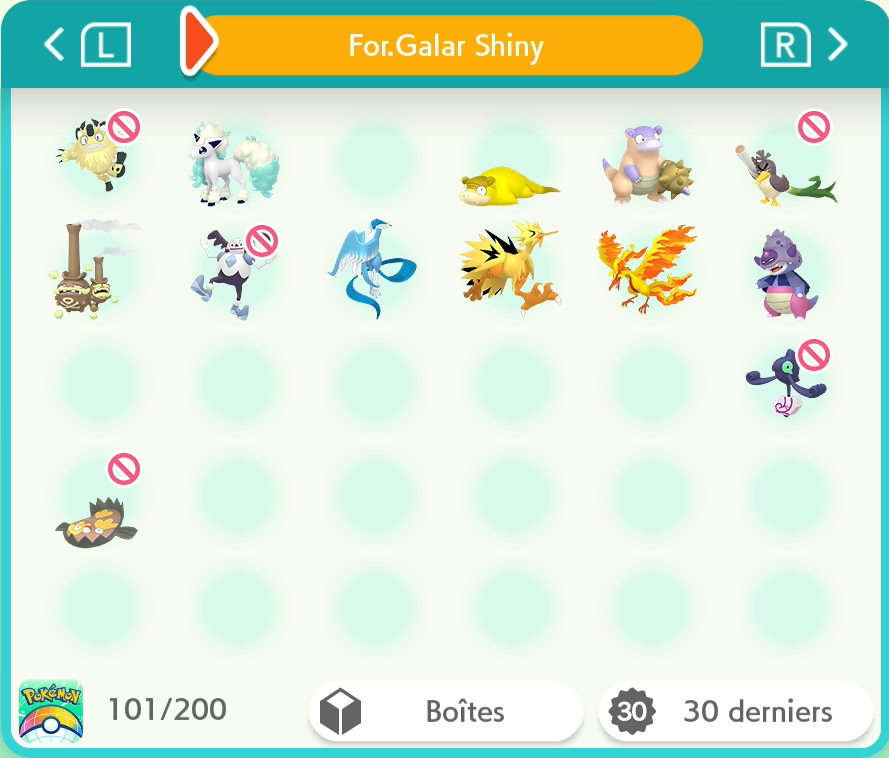
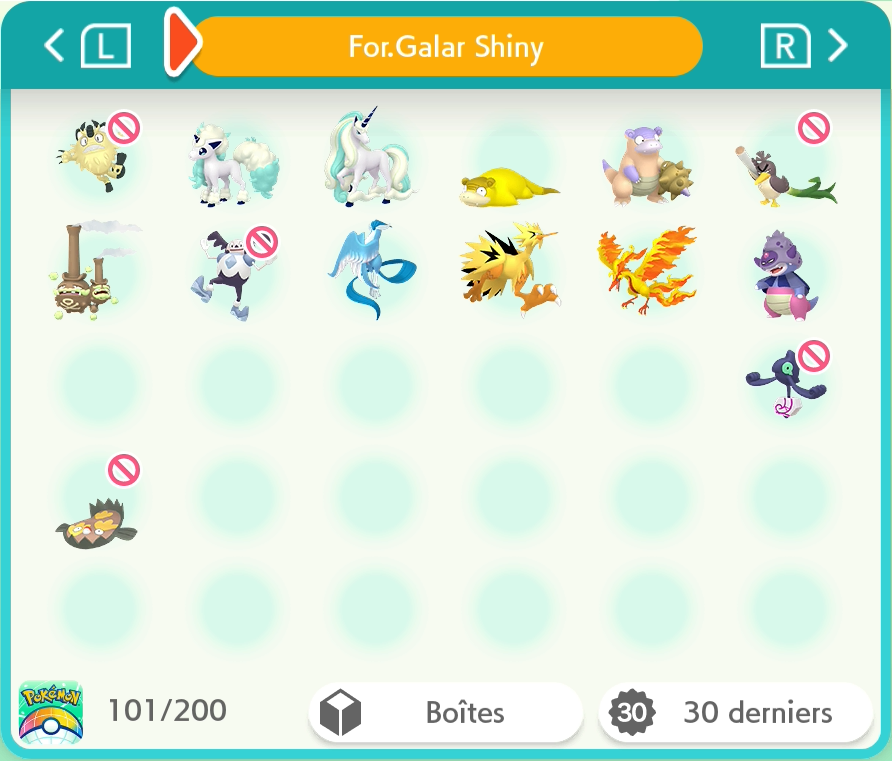
Forme de Galar : Galopa

diff --git a/README.md b/README.md
@@ -2,7 +2,7 @@
 
 Pokémon-Elément-Sh -> <a href="https://www.pokemon-element-sh.fr/profil/karyno21" target="_blank">Karyno21</a>
 
-↓ Dernière Update le 1/06/2026 à 17h52 ↓
+↓ Dernière Update le 3/06/2026 à 0h25 ↓
 ### Dex National [259/999] +23
 
 | Gen | Prog | Notes |
@@ -17,12 +17,12 @@ Pokémon-Elément-Sh -> <a href="https://www.pokemon-element-sh.fr/profil/karyno
 |8G|31/90|+9 Distrib Zacian & Éthernatos, Fantyrm, Dispareptil, Lanssorien, M.Glaquette, Berserkatt, Tutétékri & Palarticho|
 |9G|45/108|+3 Terraiste, Cryodo & Glaivodo|
 
-### Formes Régionales [52/58] +33
+### Formes Régionales [53/58] +34
 
 | Forme | Prog | Notes |
 |:--:|:--:|---|
 |Alola|18/18|+17 Complété (Familles de Rattata / Goupix / Racaillou / Sabelette / Tadmorv / Taupiqueur & Miaouss, Raichu & Noadkoko)|
-|Galar|13/19|+13 Famille de Ramoloss, Distrib des oiseaux légendaire de Galar, M.Mime, Miaouss, Tutafeh, Canarticho, Limonde, Smogogo & Ponyta|
+|Galar|14/19|+14 Famille de Ramoloss, Distrib des oiseaux légendaire de Galar, M.Mime, Miaouss, Tutafeh, Canarticho, Limonde, Smogogo, Ponyta & Galopa|
 |Hisui|17/17|Complété|
 |Paldea|4/4|+3 Complété Axoloto, Tauros Aquatique & Flamboyant|
 
